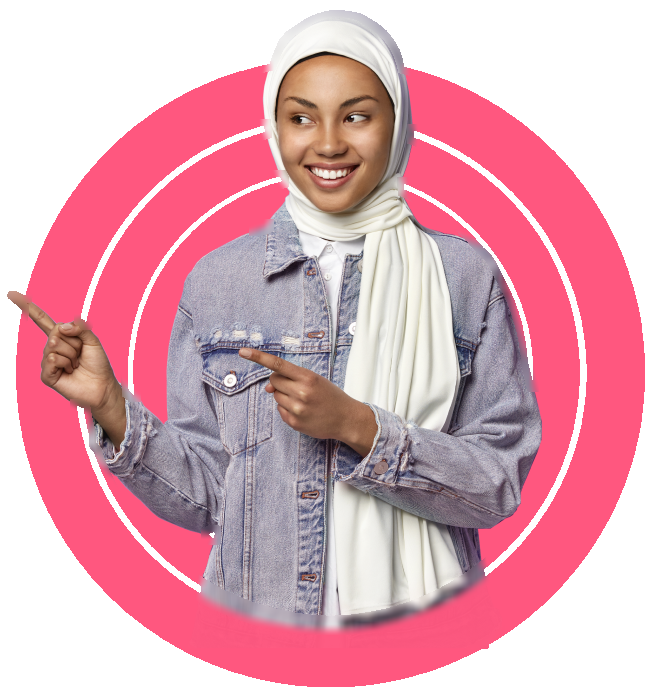
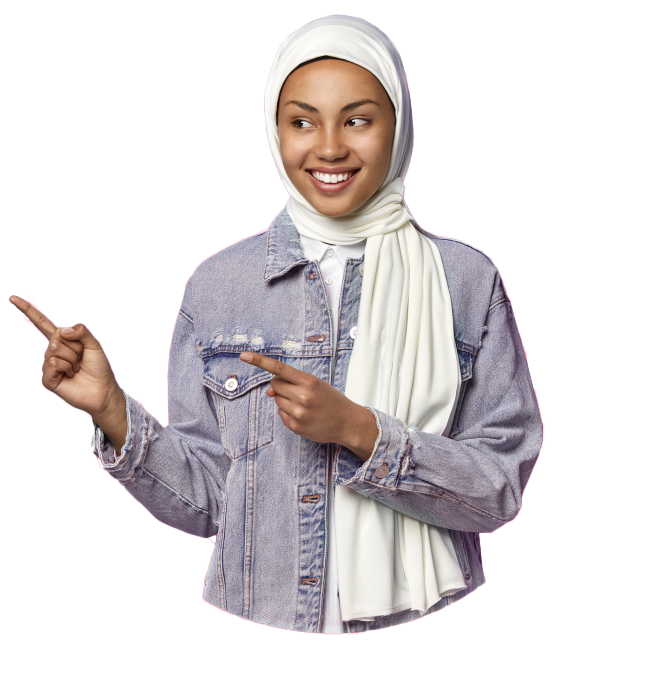
Feat: animation about-us-2

diff --git a/index.html b/index.html
@@ -135,31 +135,38 @@
         <section class="about-us aims">
             <div class="container">
                 <div class="about-us__content about-us__content--second">
-                    <div class="about-us__img">
-                        <img src="./img/about-us/girl.png" alt="">
-                    </div>
-                    <div class="about-us__info" id="about-us__info-2">
-                        <div class="about-us__wrapper-title">
-                            <h6 class="section-title"><span class="section-title__color-part section-title__color-part--color-one"> Why</span> Al-Rushd?</h6>
+                    <div class="about-us__avatar">
+                        <div class="about-us__avatar-wrapper-circles">
+                            <div class="about-us__avatar-cirlces about-us__avatar-cirlces--big"><img src="./img/about-us/pink-cicrcles-big.png" alt=""></div>
+                            <div class="about-us__avatar-cirlces about-us__avatar-cirlces--meduim"><img src="./img/about-us/pink-cicrcles-meduim.png" alt=""></div>
+                            <div class="about-us__avatar-cirlces about-us__avatar-cirlces--small"><img src="./img/about-us/pink-cicrcles-small.png" alt=""></div>
                         </div>
-                        <div class="about-us__description">
-                            <ul class="advantages-list">
-                                <li>Islamic Values and Identity</li>
-                                <li>British curriculum</li>
-                                <li>Smaller Class Sizes</li>
-                                <li>Learning without Bullying</li>
-                                <li>No more school runs!</li>
-                                <li>Qualified teachers conduct interactive an
-                                    engaging lessons LIVE, online!</li>
-                                <li>Lessons are recorded so that students can recap
-                                    and go over anything they would like to revise. Absent
-                                    students can catch up afterward.</li>
-                                <li>The lessons are more focussed so less time is required overall.</li>
-                                <li>Students can interact with the teachers and peers during lesson
-                                        via the online video platform</li>
-                            </ul> 
+                        <div class="about-us__avatar-img">
+                            <img src="./img/about-us/girl.png" alt="">
                         </div>
                     </div>
+                        <div class="about-us__info" id="about-us__info-2">
+                            <div class="about-us__wrapper-title">
+                                <h6 class="section-title"><span class="section-title__color-part section-title__color-part--color-one"> Why</span> Al-Rushd?</h6>
+                            </div>
+                            <div class="about-us__description">
+                                <ul class="advantages-list">
+                                    <li>Islamic Values and Identity</li>
+                                    <li>British curriculum</li>
+                                    <li>Smaller Class Sizes</li>
+                                    <li>Learning without Bullying</li>
+                                    <li>No more school runs!</li>
+                                    <li>Qualified teachers conduct interactive an
+                                        engaging lessons LIVE, online!</li>
+                                    <li>Lessons are recorded so that students can recap
+                                        and go over anything they would like to revise. Absent
+                                        students can catch up afterward.</li>
+                                    <li>The lessons are more focussed so less time is required overall.</li>
+                                    <li>Students can interact with the teachers and peers during lesson
+                                            via the online video platform</li>
+                                </ul> 
+                            </div>
+                        </div>
                 </div>
             </div>
         </section>

diff --git a/sass/section/_about-us.scss b/sass/section/_about-us.scss
@@ -12,7 +12,29 @@
     column-gap: 29px;
     
     &--second{
+
         flex-direction: row-reverse;
+        
+        .about-us__avatar-cirlces{
+            position: absolute;
+            top: 0;
+            left: 0;
+        
+        &--big{
+            width: 100%; 
+            transform: translate(1%, 6%);
+        }
+
+        &--meduim{
+            width: 75%;
+            transform: translate(18%, 25%);
+        }
+
+        &--small{
+            width: 59%;
+            transform: translate(36%, 45%);
+        }
+    }
     }
 }
 .about-us__avatar {
@@ -37,7 +59,6 @@
     left: 0;
     &--large{
         width: 100%;
-
     }
     &--big{
         width: 77%;  

diff --git a/sass/main.css b/sass/main.css
@@ -350,6 +350,23 @@ select:-webkit-autofill:focus {
 .about-us__content--second {
   flex-direction: row-reverse;
 }
+.about-us__content--second .about-us__avatar-cirlces {
+  position: absolute;
+  top: 0;
+  left: 0;
+}
+.about-us__content--second .about-us__avatar-cirlces--big {
+  width: 100%;
+  transform: translate(1%, 6%);
+}
+.about-us__content--second .about-us__avatar-cirlces--meduim {
+  width: 75%;
+  transform: translate(18%, 25%);
+}
+.about-us__content--second .about-us__avatar-cirlces--small {
+  width: 59%;
+  transform: translate(36%, 45%);
+}
 
 .about-us__avatar {
   position: relative;
